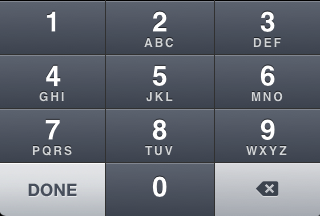
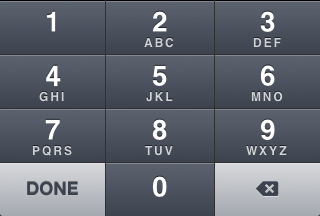
Added next/edit/dot buttons thx to @laikrodiz

Changed region(s): [[0.0625, 0.8333, 0.25, 0.9167], [0.0, 0.75, 0.3125, 0.7778], [0.0, 0.9722, 0.0312, 1.0]]

diff --git a/PinEntry/Classes/PENumpadView.m b/PinEntry/Classes/PENumpadView.m
@@ -158,6 +158,15 @@ NSString *kPinEntryKeyboardCode = @"kPinEntryKeyboardCode";
 		case PEKeyboardDetailDone:
 			detail = @"-done";
 			break;
+		case PEKeyboardDetailNext:
+			detail = @"-next";
+			break;
+		case PEKeyboardDetailDot:
+			detail = @"-dot";
+			break;
+		case PEKeyboardDetailEdit:
+			detail = @"-edit";
+			break;
 	}
 	[self setNeedsDisplay];
 }

diff --git a/PinEntry/Classes/PENumpadView.h b/PinEntry/Classes/PENumpadView.h
@@ -46,6 +46,7 @@ extern NSString *kPinEntryKeyboardCode;
 #define PEKeyboardDetailDone	1
 #define PEKeyboardDetailNext	2
 #define PEKeyboardDetailDot		3
+#define PEKeyboardDetailEdit	4
 
 
 @interface PENumpadView : UIView

diff --git a/README.md b/README.md
@@ -18,8 +18,9 @@ Use the property **detailButton** to specify the look of the optional button.
 
 * _PEKeyboardDetailNone_: no button (no events generated on tap)
 * _PEKeyboardDetailDone_: "DONE" button
-* _PEKeyboardDetailNext_: (TBD) "NEXT" button
-* _PEKeyboardDetailDot_: (TBD) "." button
+* _PEKeyboardDetailNext_: "NEXT" button
+* _PEKeyboardDetailDot_: "." button
+* _PEKeyboardDetailEdit_: "EDIT" button
 
 ### Handling events
 
@@ -151,6 +152,5 @@ A complete implementation of navigation stack, required to ask user for a pin co
 TODO
 ====
 
-* Add support for _PEKeyboardDetailNext_ and _PEKeyboardDetailDot_
 * Add i18n support
 * Add retina images
